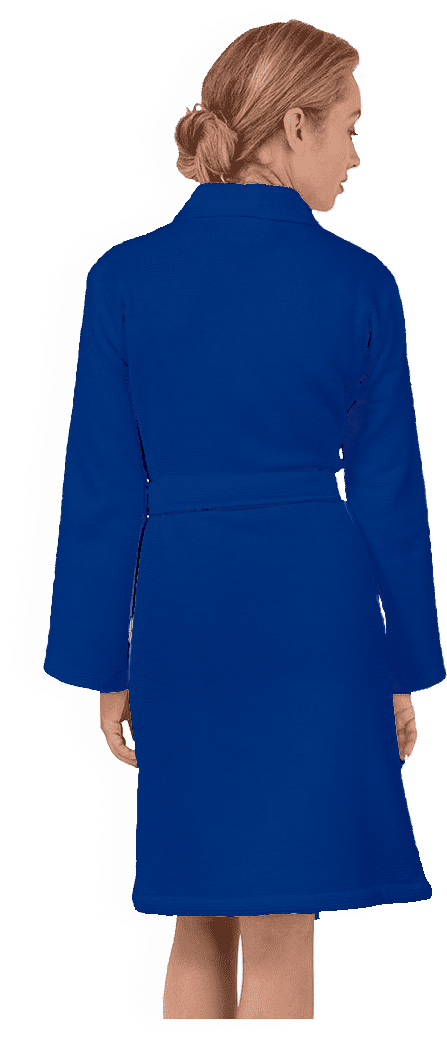
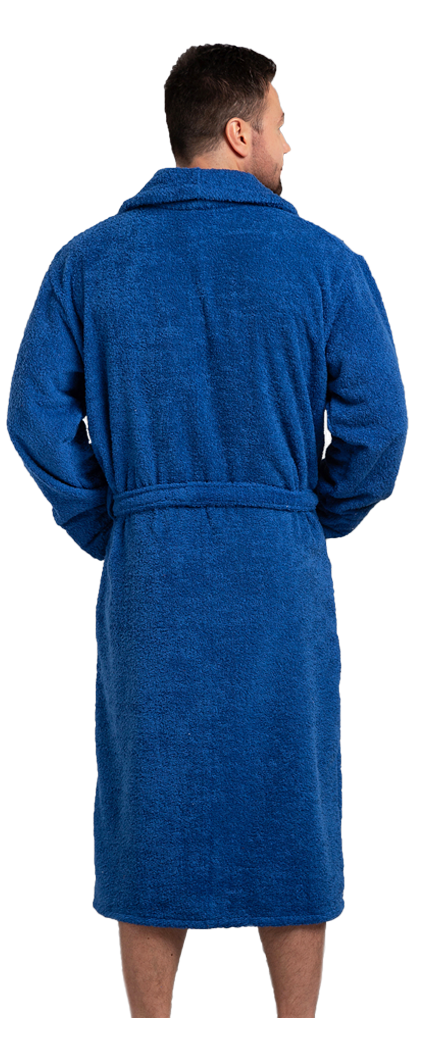
Доделали выбор рисунков, resolved #52

diff --git a/index.html b/index.html
@@ -181,7 +181,7 @@
       <div class="constructorBG">
         <section class="constructor" id="constructor">
           <div class="previewContainer" id="previewContainer">
-            <img alt="махровый халат с именной вышивкой" src="img/previewWhite.png" />
+            <img alt="махровый халат с именной вышивкой" src="img/previewWhiteFemale.png" />
             <p class="sign" id="sign"></p>
             <img src="img/wreathsWithCrownGold.png" alt="рисунок венки с короной" id="wreathsWithCrown" class="picture" />
             <img src="img/curlsGold.png" alt="рисунок завитки" id="curls" class="picture" />
@@ -274,16 +274,16 @@
                         <span id="selectedBathrobeColorName">Выберите цвет халата</span>
                         <img alt="" class="selectorArrow" src="img/selectorOpenArrow.svg" />
                       </div>
-                      <div class="colorPickerItem" id="bathrobeColorPickerItem1" onclick="pickBathrobeColor('Белый', 'img/previewWhite.png')">
+                      <div class="colorPickerItem" id="bathrobeColorPickerItem1" onclick="pickBathrobeColor('Белый', 'img/previewWhiteMale.png', 'img/previewWhiteFemale.png')">
                         Белый
                       </div>
-                      <div class="colorPickerItem" id="bathrobeColorPickerItem2" onclick="pickBathrobeColor('Синий', 'img/previewBlue.png')">
+                      <div class="colorPickerItem" id="bathrobeColorPickerItem2" onclick="pickBathrobeColor('Синий', 'img/previewBlue.png', 'img/previewBlue.png')">
                         Синий
                       </div>
-                      <div class="colorPickerItem" id="bathrobeColorPickerItem3" onclick="pickBathrobeColor('Персиковый', 'img/previewPeach.png')">
+                      <div class="colorPickerItem" id="bathrobeColorPickerItem3" onclick="pickBathrobeColor('Персиковый', 'img/previewPeach.png', 'img/previewPeach.png')">
                         Персиковый
                       </div>
-                      <div class="colorPickerItem" id="bathrobeColorPickerItem4" onclick="pickBathrobeColor('Коричневый', 'img/previewBrown.png')">
+                      <div class="colorPickerItem" id="bathrobeColorPickerItem4" onclick="pickBathrobeColor('Коричневый', 'img/previewBrown.png', 'img/previewBrown.png')">
                         Коричневый
                       </div>
                     </div>
@@ -298,21 +298,21 @@
                         <img alt="" class="selectorArrow" src="img/selectorOpenArrow.svg" />
                       </div>
                       <div class="imagePickerItems">
-                      <div class="imagePickerItem" id="imagePickerItem1" onclick="pickImage('Корона с венками', 1)">
-                          <img alt="" id="wreathsWithCrownGold" src="img/wreathsWithCrownGold.png" />
-                      </div>
-                      <div class="imagePickerItem" id="imagePickerItem2" onclick="pickImage('Завитки', 2)">
-                          <img alt="" id="curlsGold" src="img/curlsGold.png" />
-                      </div>
-                      <div class="imagePickerItem" id="imagePickerItem3" onclick="pickImage('Корона', 3)">
-                          <img alt="" id="crownGold" src="img/crownGold.png" />
-                      </div>
-                      <div class="imagePickerItem" id="imagePickerItem4" onclick="pickImage('Диадема', 4)">
-                          <img alt="" id="diadem" src="img/diademGold.png" />
-                      </div>
-                      <div class="imagePickerItem" id="imagePickerItem5" onclick="pickImage('Без рисунка')">
-                        Без рисунка
-                      </div>
+                        <div class="imagePicture" id="imagePickerItem1" onclick="pickImage('Корона с венками', 1)">
+                          <img alt="" id="wreathsWithCrownPicker" src="img/wreathsWithCrownGold.png" />
+                        </div>
+                        <div class="imagePicture" id="imagePickerItem2" onclick="pickImage('Завитки', 2)">
+                          <img alt="" id="curlsPicker" src="img/curlsGold.png" />
+                        </div>
+                        <div class="imagePicture" id="imagePickerItem3" onclick="pickImage('Корона', 3)">
+                          <img alt="" id="crownPicker" src="img/crownGold.png" />
+                        </div>
+                        <div class="imagePicture" id="imagePickerItem4" onclick="pickImage('Диадема', 4)">
+                          <img alt="" id="diademPicker" src="img/diademGold.png" />
+                        </div>
+                        <div class="imagePicture" id="imagePickerItem5" onclick="pickImage('Без рисунка')">
+                          Без рисунка
+                        </div>
                       </div>
                     </div>
                   </div>

diff --git a/js/index.js b/js/index.js
@@ -464,15 +464,15 @@ function changeFontSize(value) {
   pickedFontSize[bathrobeID] = currentSize;
   if (currentSize >= 56) {
     $("#plus").css("pointer-events", "none");
-    $("#minus").click(function(){
+    $("#minus").click(function() {
       $("#plus").css("pointer-events", "auto");
-    })
+    });
   }
   if (currentSize <= 12) {
     $("#minus").css("pointer-events", "none");
-    $("#plus").click(function(){
+    $("#plus").click(function() {
       $("#minus").css("pointer-events", "auto");
-    })
+    });
   }
 }
 
@@ -519,12 +519,14 @@ function closeBathrobeColorPicker() {
 function openImagePicker() {
   $("#imagePicker").toggleClass("active");
   $(".image, .imagePickerItem").toggleClass("active");
+  $(".image, .imagePicture").toggleClass("active");
   $("#selectedImage img").toggleClass("flip");
 }
 
 function closeImagePicker() {
   $("#imagePicker").removeClass("active");
   $(".image, .imagePickerItem").removeClass("active");
+  $(".image, .imagePicture").removeClass("active");
   $("#selectedImage img").removeClass("flip");
 }
 
@@ -538,28 +540,49 @@ function pickFont(font) {
   pickedFont[bathrobeID] = font;
 }
 
-function pickBathrobeColor(color, colorLink) {
+function pickBathrobeColor(color, colorLinkMale, colorLinkFemale) {
   $("#selectedBathrobeColorName").html(color);
   $("#selectedBathrobeColor").addClass("picked");
-  $("#previewContainer img")
-    .eq(0)
-    .attr("src", colorLink);
+  if (pickedSexID[bathrobeID] === 0) {
+    $("#previewContainer img")
+      .eq(0)
+      .attr("src", colorLinkMale);
+    pickedBathrobeColorIMG[bathrobeID] = colorLinkMale;
+  } else if (pickedSexID[bathrobeID] === 1) {
+    $("#previewContainer img")
+      .eq(0)
+      .attr("src", colorLinkFemale);
+    pickedBathrobeColorIMG[bathrobeID] = colorLinkFemale;
+  } else {
+    pickSex("Мужской", 0);
+    $("#previewContainer img")
+      .eq(0)
+      .attr("src", colorLinkMale);
+    pickedBathrobeColorIMG[bathrobeID] = colorLinkMale;
+  }
   if (color === "Персиковый") {
     $("#wreathsWithCrown").attr("src", "img/wreathsWithCrownBlue.png");
     $("#curls").attr("src", "img/curlsBlue.png");
     $("#crown").attr("src", "img/crownBlue.png");
     $("#diadem").attr("src", "img/diademBlue.png");
     $("#sign").css("color", "#4053ff");
+    $("#wreathsWithCrownPicker").attr("src", "img/wreathsWithCrownBlue.png");
+    $("#curlsPicker").attr("src", "img/curlsBlue.png");
+    $("#crownPicker").attr("src", "img/crownBlue.png");
+    $("#diademPicker").attr("src", "img/diademBlue.png");
   } else {
     $("#wreathsWithCrown").attr("src", "img/wreathsWithCrownGold.png");
     $("#curls").attr("src", "img/curlsGold.png");
     $("#crown").attr("src", "img/crownGold.png");
     $("#diadem").attr("src", "img/diademGold.png");
+    $("#wreathsWithCrownPicker").attr("src", "img/wreathsWithCrownGold.png");
+    $("#curlsPicker").attr("src", "img/curlsGold.png");
+    $("#crownPicker").attr("src", "img/crownGold.png");
+    $("#diademPicker").attr("src", "img/diademGold.png");
     $("#sign").css("color", "#ffd400");
   }
   closeBathrobeColorPicker();
   pickedBathrobeColor[bathrobeID] = color;
-  pickedBathrobeColorIMG[bathrobeID] = colorLink;
 }
 
 function pickImage(image, imageID) {
@@ -716,9 +739,15 @@ function pickSex(sex, sexID) {
   pickedSexID[bathrobeID] = sexID;
   $("#selectedBathrobeColorName").html("Выберите цвет халата");
   $("#selectedBathrobeColor").removeClass("picked");
-  $("#previewContainer img")
-    .eq(0)
-    .attr("src", "img/previewWhite.png");
+  if (sexID === 0) {
+    $("#previewContainer img")
+      .eq(0)
+      .attr("src", "img/previewWhiteMale.png");
+  } else {
+    $("#previewContainer img")
+      .eq(0)
+      .attr("src", "img/previewWhiteFemale.png");
+  }
 }
 
 const signInput = $("#signInput");

diff --git a/css/index.css b/css/index.css
@@ -856,7 +856,7 @@ main {
 }
 
 .imagePicker {
-  width:  300px;
+  width: 300px;
   height: 50px;
   border-radius: 25px;
   background-color: var(--pale-grey);
@@ -868,23 +868,17 @@ main {
   grid-template-rows: 50px;
   position: absolute;
 }
+
 .imagePickerItems {
-  padding-top:  20px;
+  padding: 10px;
   display: grid;
-  grid-template-rows: 1fr 1fr;
   grid-template-columns: 1fr 1fr 1fr;
-  grid-gap: 2vw;
 }
 
 .imagePickerItems img {
-  width: 60px;
-  height: 40px;
-}
-
-.imagePickerItems #curlsGold {
-  width: 110px;
-  height: 25px;
-  padding-right: 15px;
+  object-fit: contain;
+  width: 70px;
+  height: 60px;
 }
 
 .imagePicker:hover #selectedImage {
@@ -911,17 +905,30 @@ main {
   align-items: center;
   justify-items: center;
   color: var(--greyish-brown);
-  padding-left: 15px;
+  padding-left: 20px;
   cursor: pointer;
   transition: all 0.2s ease;
 }
 
-.imagePickerItem:hover {
+.imagePicture {
+  display: none;
+  align-items: center;
+  justify-content: center;
+  color: var(--greyish-brown);
+  cursor: pointer;
+  transition: all 0.2s ease;
+  border-radius: 30px;
+}
+
+.imagePicture:hover {
   background-color: var(--pale-grey);
-  border-radius: 25px;
 }
 
 .imagePickerItem.active {
+  display: flex;
+}
+
+.imagePicture.active {
   display: flex;
 }
 

diff --git a/cart.html b/cart.html
@@ -38,7 +38,7 @@
     <main>
       <section class="previewContainer">
         <div class="previewImageContainer">
-          <img alt="" class="preview" src="img/previewWhite.png" />
+          <img alt="" class="preview" />
           <p id="sign">Привет</p>
           <img src="img/wreathsWithCrownGold.png" alt="" id="wreathsWithCrown" class="picture" />
           <img src="img/curlsGold.png" alt="" id="curls" class="picture" />
